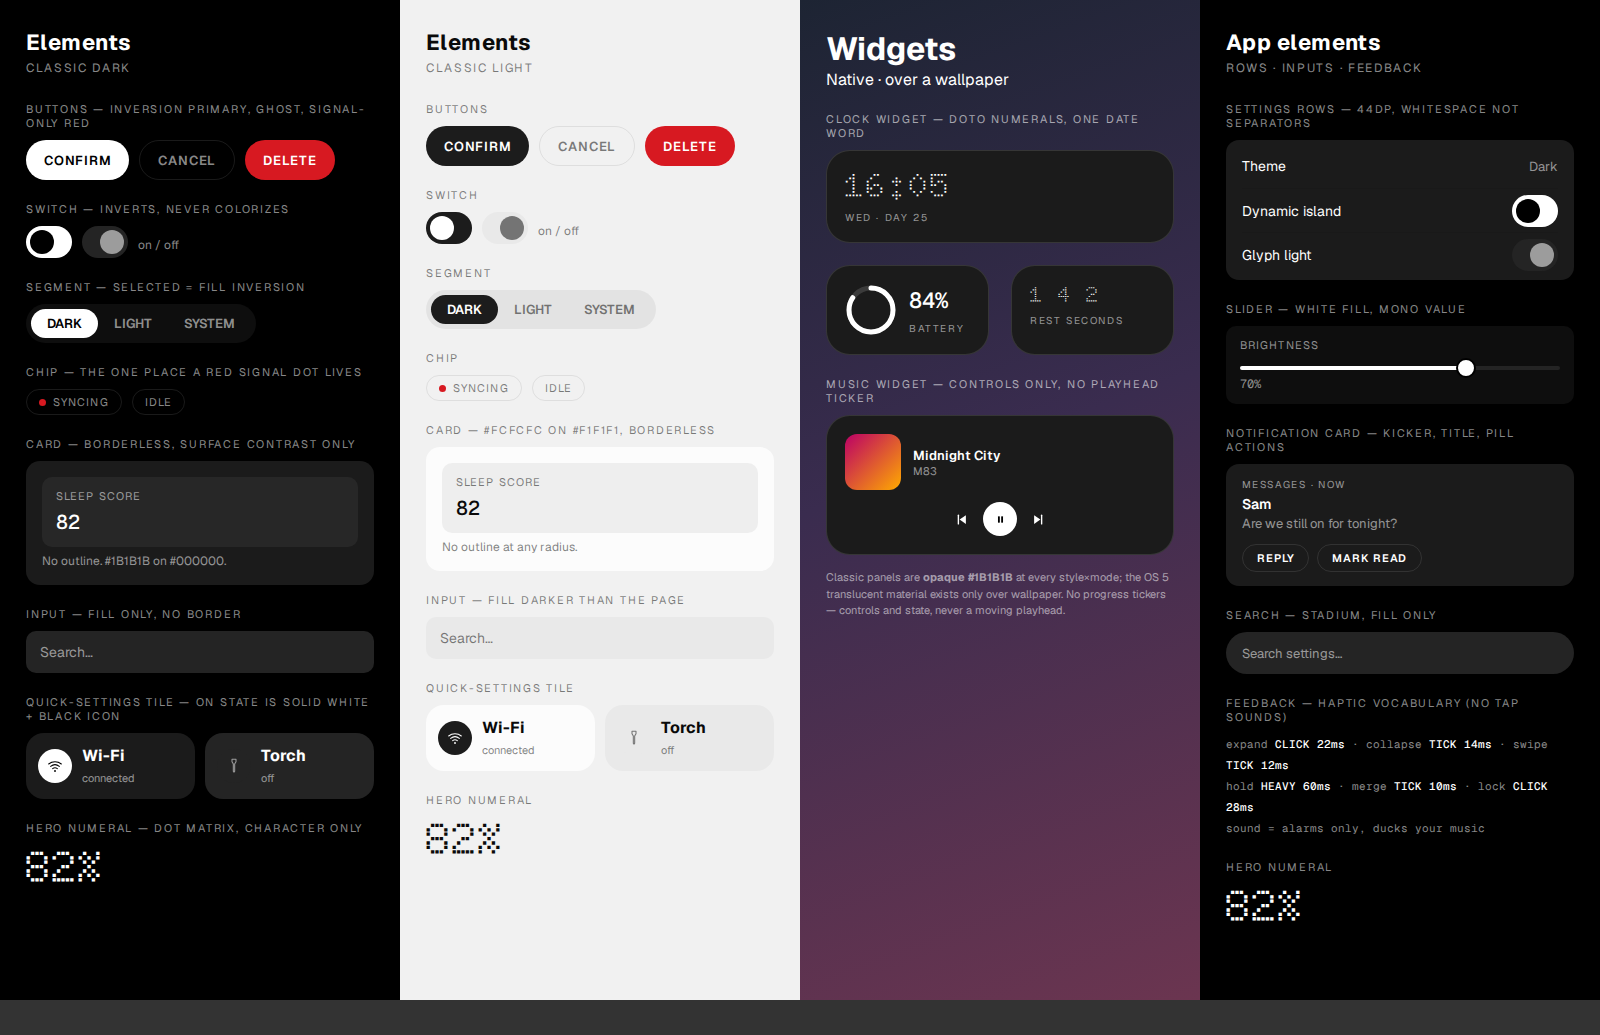
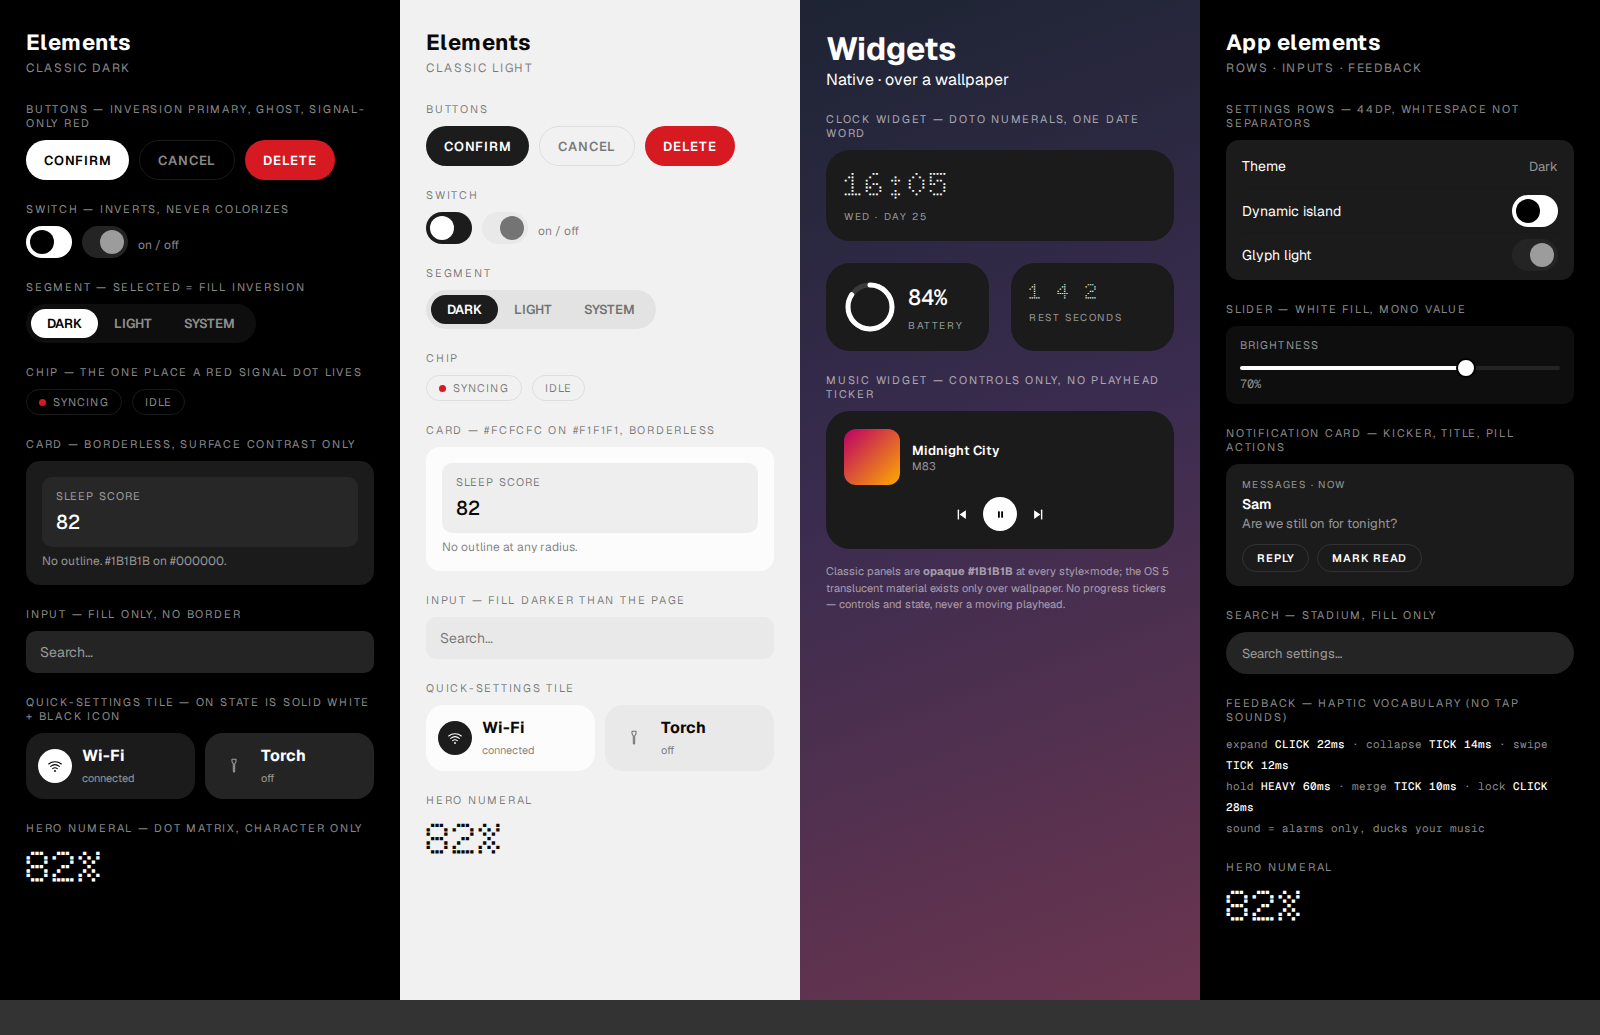
fix(site+gallery): widget panels are borderless in Classic — border was OS 5-only
The measured matrix concluded Classic home-widget panels are opaque
exact-value (#1B1B1B / #F1F1F1) with no hairline; a hairline belongs to
the OS 5 translucent material (and to native RemoteViews as the
can't-frost approximation). The specimens gave every panel a border in
every style.

- Classic: border removed — separation by surface contrast only.
- OS 5: panels become translucent over the wallpaper gradient
  (rgba(0,0,0,.72) dark / rgba(255,255,255,.55) light) + one hairline
  (white 10% / black 8%), matching the measured scrim direction.
- Caption states the rule; gallery PNG re-rendered.

diff --git a/docs/index.html b/docs/index.html
@@ -106,8 +106,10 @@
     padding:22px;border-radius:var(--nt-radius-lg);
     background:linear-gradient(160deg,#1d2433 0%,#3a2c4f 45%,#6b3550 100%)}
   html.theme-light .wgrid{background:linear-gradient(160deg,#cdd6e6 0%,#e2d5ee 45%,#f2c9d8 100%)}
-  .wcard{background:#1B1B1B;border-radius:24px;padding:18px;border:1px solid rgba(255,255,255,.12);color:#fff}
-  html.theme-light .wcard{background:#F1F1F1;border-color:rgba(0,0,0,.08);color:#0A0A0A}
+  .wcard{background:#1B1B1B;border-radius:24px;padding:18px;color:#fff}
+  html.theme-os5 .wcard{background:rgba(0,0,0,.72);border:1px solid rgba(255,255,255,.1)}
+  html.theme-light .wcard{background:#F1F1F1;color:#0A0A0A}
+  html.theme-os5.theme-light .wcard{background:rgba(255,255,255,.55);border-color:rgba(0,0,0,.08);color:#0A0A0A}
   .wclock{font-family:"Doto",monospace;font-weight:500;font-size:38px;line-height:1;letter-spacing:.04em}
   .wkick{font-size:10px;letter-spacing:.16em;text-transform:uppercase;color:rgba(255,255,255,.55);margin-top:8px}
   html.theme-light .wkick{color:rgba(0,0,0,.5)}
@@ -303,6 +305,7 @@
         <div class="wfoot">Controls and state — never a per-second playhead.</div>
       </div>
     </div>
+    <div class="foot-note">Classic panels are opaque exact-value (#1B1B1B / #F1F1F1), borderless. In OS 5 they turn translucent over the wallpaper (≈70% black scrim / ≈50% white wash) and gain exactly one hairline.</div>
   </section>
 
   <!-- ============ TOKENS ============ -->

diff --git a/docs/mockup-elements.html b/docs/mockup-elements.html
@@ -51,7 +51,7 @@
   .panelW{width:400px; padding:28px 26px 40px; min-height:1000px; background:linear-gradient(160deg,#1d2433 0%,#3a2c4f 45%,#6b3550 100%); color:#fff}
   .panelW .k{color:rgba(255,255,255,.6)}
   .wgrid{display:grid; grid-template-columns:1fr 1fr; gap:22px}
-  .wcard{background:#1B1B1B; border-radius:24px; padding:18px; border:1px solid rgba(255,255,255,.12)}
+  .wcard{background:#1B1B1B; border-radius:24px; padding:18px}
   .wclock{font-family:"Doto",monospace; font-weight:500; font-size:34px; line-height:1; letter-spacing:.04em}
   .wkick{font-size:10px; letter-spacing:.16em; text-transform:uppercase; color:rgba(255,255,255,.55); margin-top:8px}
   .wring{display:flex; align-items:center; gap:12px}
